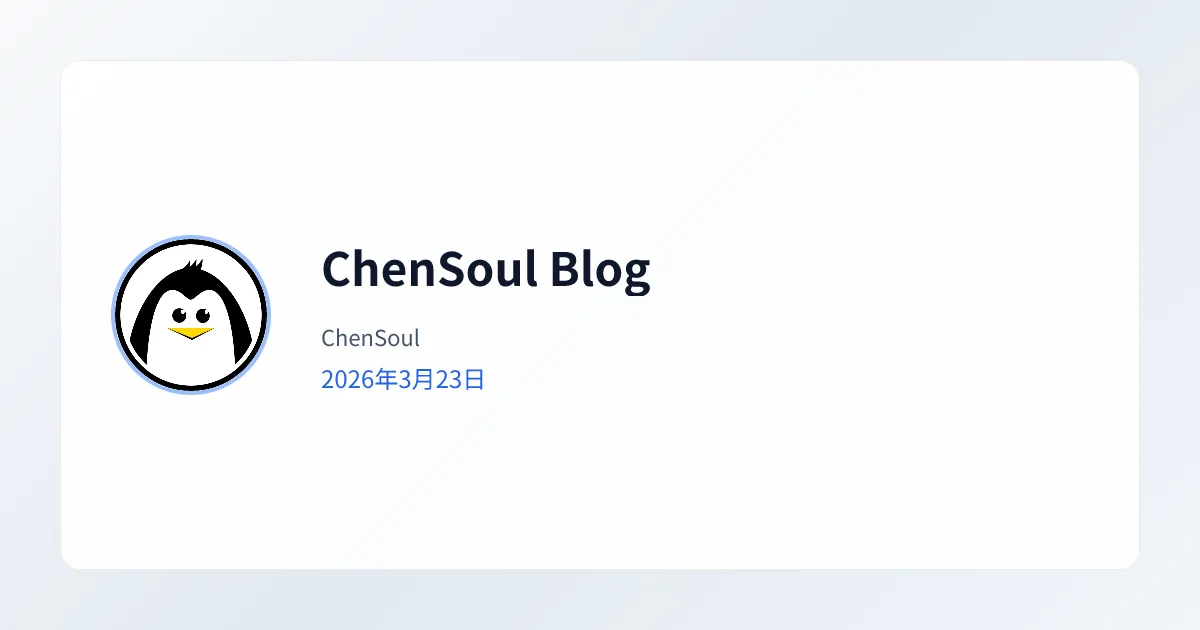
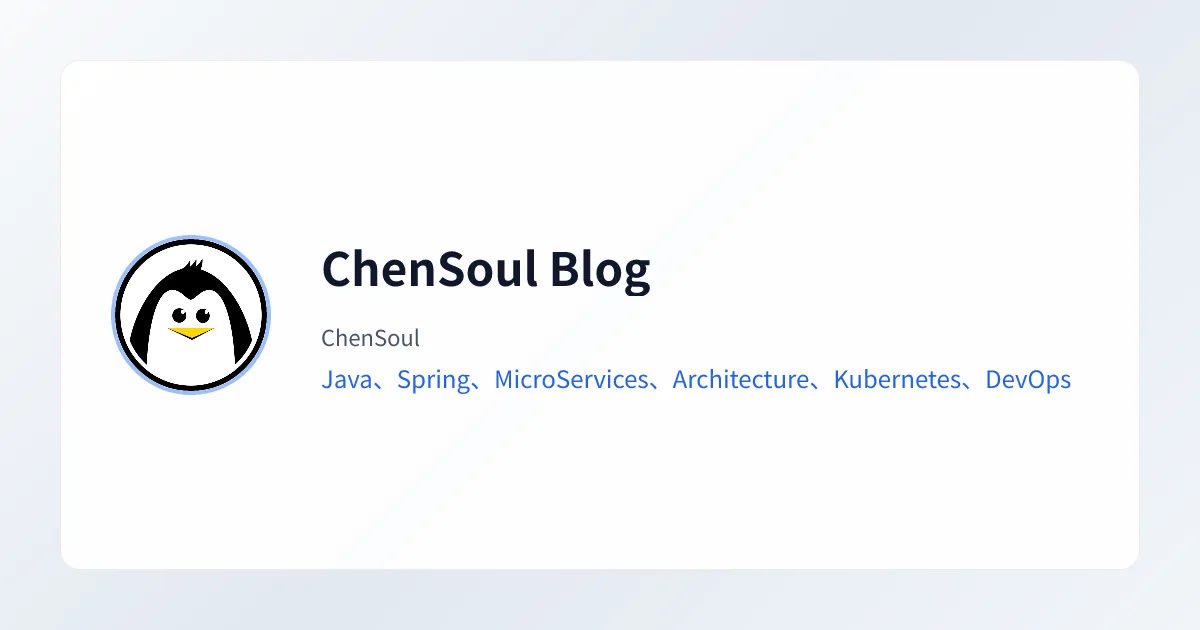
refactor(og): 增强图片生成功能并更新预览

Changed region(s): [[0.2775, 0.573, 0.8942, 0.6333]]

diff --git a/src/utils/og-image.ts b/src/utils/og-image.ts
@@ -40,22 +40,31 @@ function getFonts() {
 
 interface OgImageOptions {
   title: string;
-  date: Date;
+  date?: Date | null;
   author?: string;
   siteTitle?: string;
+  description?: string;
 }
 
 export async function generateOgImage({
   title,
   date,
   author,
+  siteTitle,
+  description,
 }: OgImageOptions): Promise<Buffer> {
   const fonts = await getFonts();
-  const dateStr = date.toLocaleDateString("zh-CN", {
-    year: "numeric",
-    month: "long",
-    day: "numeric",
-  });
+
+  const titleText = title || siteTitle || "";
+
+  const dateStr = date
+    ? date.toLocaleDateString("zh-CN", {
+        year: "numeric",
+        month: "long",
+        day: "numeric",
+      })
+    : null;
+  const displayText = description || dateStr || "";
 
   const svg = await satori(
     {
@@ -136,7 +145,7 @@ export async function generateOgImage({
                             overflow: "hidden",
                             textOverflow: "ellipsis",
                           },
-                          children: title,
+                          children: titleText,
                         },
                       },
                       {
@@ -172,7 +181,7 @@ export async function generateOgImage({
                                   color: "#2563eb",
                                   fontWeight: 400,
                                 },
-                                children: dateStr,
+                                children: displayText,
                               },
                             },
                           ],

diff --git a/src/pages/og/[...slug].png.ts b/src/pages/og/[...slug].png.ts
@@ -31,9 +31,10 @@ export const GET: APIRoute = async ({ props }) => {
 
   const png = await generateOgImage({
     title,
-    date: date,
+    date,
     author,
     siteTitle: SITE.title,
+    description: SITE.desc
   });
 
   return new Response(Buffer.from(png), {
